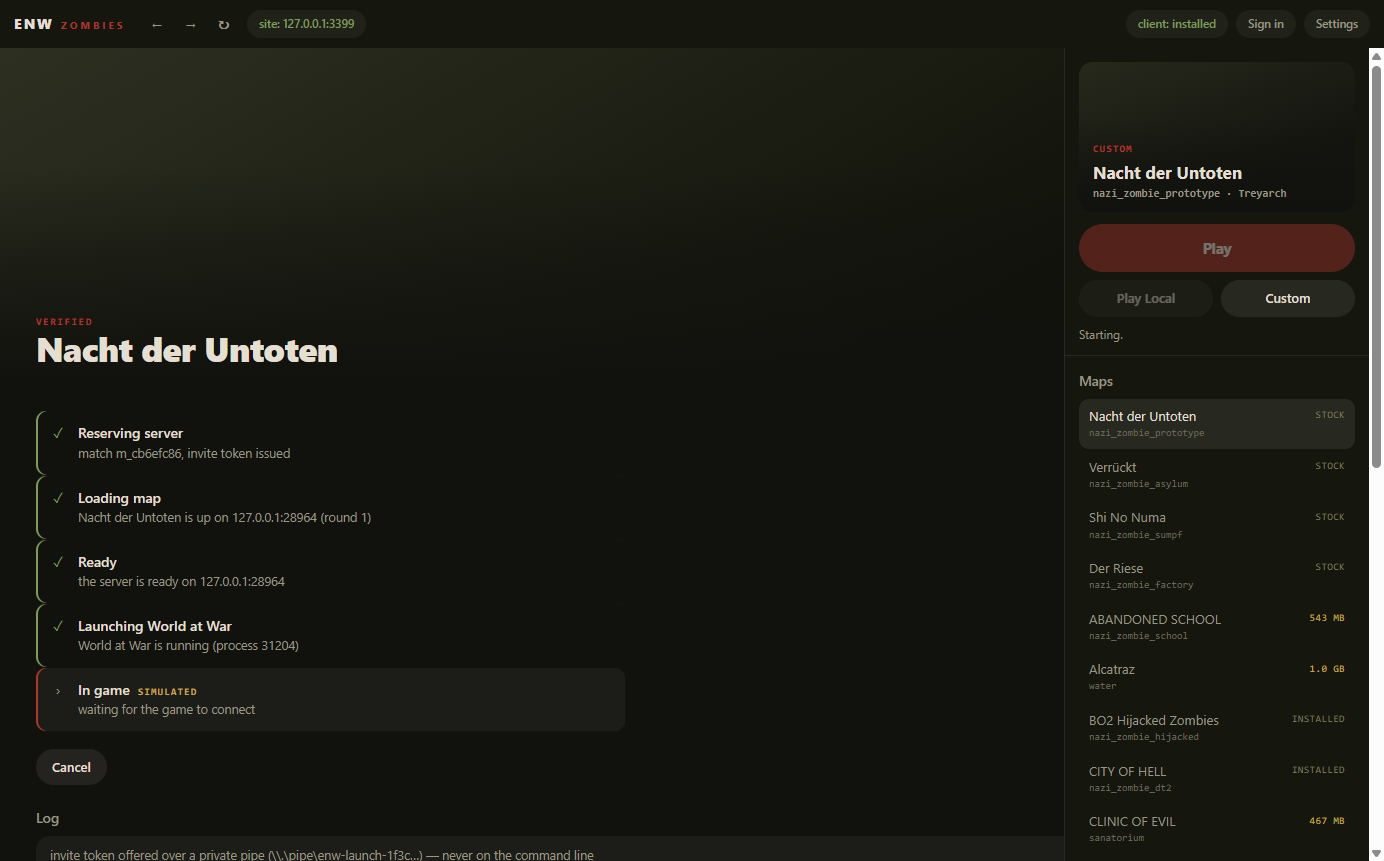
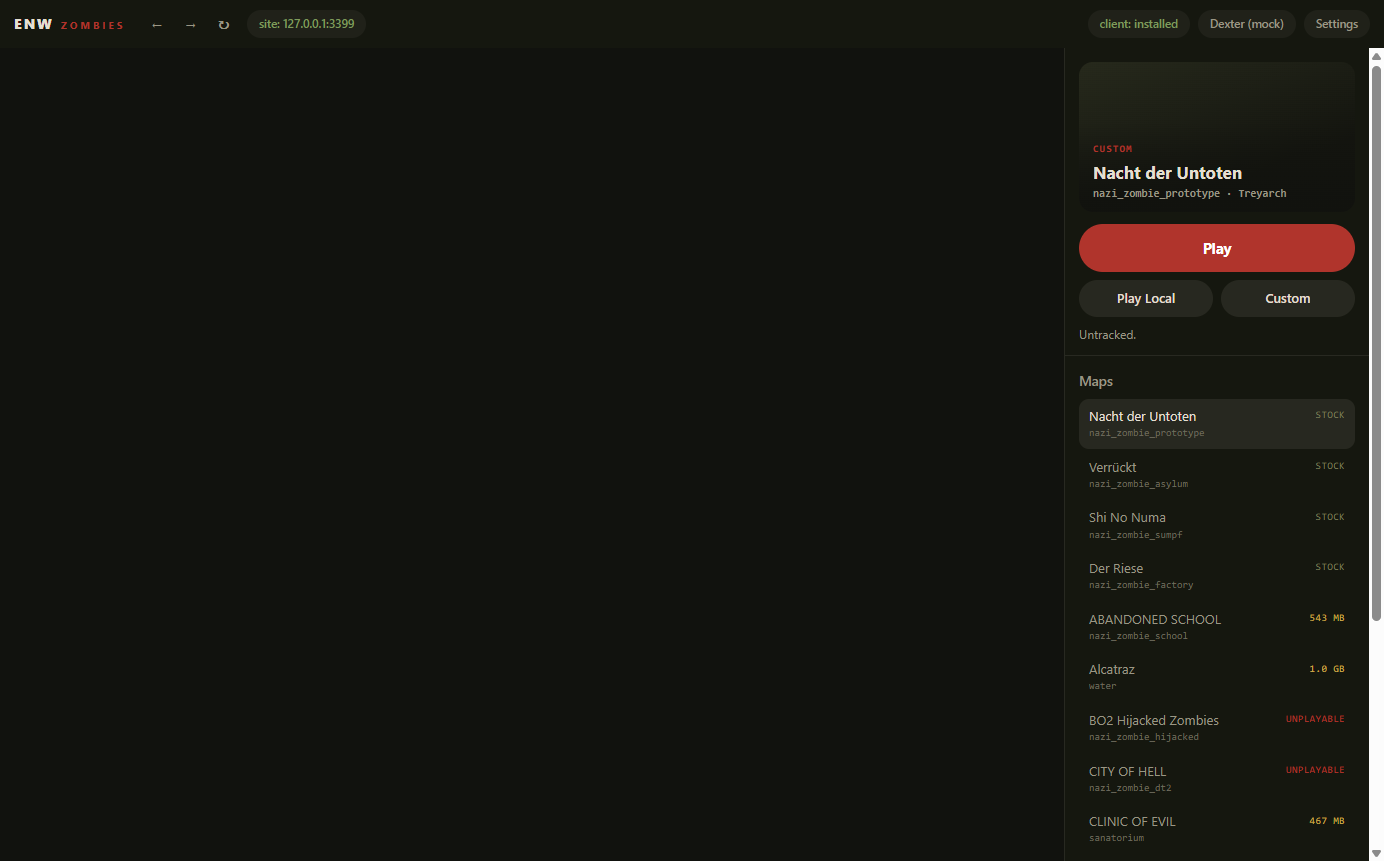
ui: the launcher renderer reads like the site, and says when a map is dead
Same palette and the same component vocabulary as web/client/src/theme.css:
borderless surfaces, pill buttons and inputs, 13.5px sentence-case labels,
mono micro-caps for the small stuff, 14px radii. The launcher and the page
it wraps no longer look like two products.

Copy cut: the setup screen's "One screen. We find your copy of World at
War..." lede, Settings' "your own World at War config is never modified",
"Your Steam copy of World at War is not touched, and nothing is written to
it. Ever." (now "Your Steam copy is not touched."), the detection screen's
recital of where it looked (that screen already lists every folder), "Some
of this was not real", and six hints that explained more than the control
needed. The card note under Play now only speaks when it has something the
button does not.

New, and the reason for the commit: a map can install cleanly, launch, and
be dead from a GSC error before the player can move — three tried, three
different errors. The rail had no word for that. An installed map that is
not playable now carries a red UNPLAYABLE tag instead of "installed", and
selecting it says "Installs and launches, but its script dies on load."
Play is left enabled: this is the state we need people to be able to
reproduce, not one to hide behind a disabled button.

`playable(m)` reads `m.playable` when the catalogue carries it; until the
main process does, stock is playable and custom is not, which is today's
truth.

diff --git a/launcher/src/renderer/shell.js b/launcher/src/renderer/shell.js
@@ -32,6 +32,19 @@ const STOCK = [
   { bsp: 'nazi_zombie_factory', title: 'Der Riese', author: 'Treyarch', stock: true, installed: true, available: true, bytes: 0, fsGame: null },
 ]
 
+// Installed is not the same as playable.
+//
+// A custom map installs cleanly, launches, renders and holds 60 fps, and its server
+// script is already dead from a GSC runtime error before the player can move. Three
+// tried, three different errors. "Play" followed by a silent dead map is worse than a
+// row that says so, so the rail says so.
+//
+// The catalogue does not carry that verdict yet. When the main process adds `playable`
+// to a record this reads it; until then a stock map is playable and a custom one is not,
+// which is today's truth. Delete the fallback, not this function, when it stops being.
+const playable = (m) => (m && m.playable !== undefined ? !!m.playable : !!(m && m.stock))
+const UNPLAYABLE_NOTE = 'Installs and launches, but its script dies on load.'
+
 // ------------------------------------------------------------------- screens --
 
 function show(name) {
@@ -71,9 +84,11 @@ function renderMaps() {
     // "not on this PC" is a real state and has to look different from "download me":
     // nothing serves the rescued map files yet, so on a friend's machine most of this
     // list cannot be installed at all. Saying "453 MB" there would be a lie.
+    const dead = !playable(m)
     const tag = el('span', 'tag',
-      m.stock ? 'stock' : m.installed ? 'installed' : m.available ? mb(m.bytes) : 'unavailable')
-    if (!m.stock && !m.installed) tag.classList.add(m.available ? 'needs' : 'absent')
+      m.stock ? 'stock' : dead && m.installed ? 'unplayable' : m.installed ? 'installed' : m.available ? mb(m.bytes) : 'unavailable')
+    if (dead && m.installed) tag.classList.add('dead')
+    else if (!m.stock && !m.installed) tag.classList.add(m.available ? 'needs' : 'absent')
     b.append(tag)
     // The bsp, small — it is what the folder and the original download are called, and
     // people searching for a map will have seen it.
@@ -127,15 +142,18 @@ function updatePlay() {
   }
   $('playLocalBtn').disabled = !S.map || !ready || busy || needsInstall || unavailable || installing
   // One line, and only when it says something the buttons do not.
-  $('cardNote').textContent =
+  const note = $('cardNote')
+  note.textContent =
     !ready ? 'ENW client not installed.'
       : installing ? (S.installFile || 'Copying files.')
         : busy ? 'Starting.'
           : !S.map ? 'Pick a map.'
-            : unavailable ? 'Not on this PC. The four stock maps work.'
+            : unavailable ? 'Not on this PC. Nacht der Untoten works.'
               : needsInstall ? 'Not installed yet.'
-                : S.mode === 'verified' ? 'Records and badges count.'
-                  : 'Untracked.'
+                : !playable(m) ? UNPLAYABLE_NOTE
+                  : S.mode === 'verified' ? 'Records and badges count.'
+                    : 'Untracked.'
+  note.classList.toggle('bad', !!m && !needsInstall && !unavailable && !installing && !playable(m))
 }
 
 async function installSelected() {

diff --git a/launcher/src/renderer/shell.css b/launcher/src/renderer/shell.css
@@ -64,6 +64,12 @@ input, select {
   border-radius: var(--pill); padding: 8px 14px; width: 100%; outline: none;
 }
 input:focus, select:focus { background: rgba(228, 223, 209, .12); box-shadow: 0 0 0 2px rgba(123, 126, 88, .3); }
+/* A checkbox is not a text field: the browser default is a white box that reads as a
+   different application to everything around it. */
+input[type=checkbox] {
+  width: 16px; height: 16px; padding: 0; border-radius: 4px;
+  accent-color: var(--olive); background: var(--panel-2); cursor: pointer;
+}
 a { color: var(--olive); }
 code { font-family: var(--mono); font-size: 12px; color: var(--bone-dim); word-break: break-all; }
 
@@ -135,6 +141,8 @@ code { font-family: var(--mono); font-size: 12px; color: var(--bone-dim); word-b
 .card-actions .row > * { flex: 1; }
 #playBtn { padding: 13px; font-size: 14.5px; font-weight: 700; }
 .card-note { font-size: 12px; color: var(--text-dim); }
+/* Installed but not playable: the one note that has to be read, not skimmed past. */
+.card-note.bad { color: var(--blood-bright); }
 
 .kv {
   display: flex; align-items: baseline; justify-content: space-between; gap: 10px;
@@ -260,3 +268,5 @@ code { font-family: var(--mono); font-size: 12px; color: var(--bone-dim); word-b
 }
 /* A map whose files are not on this PC at all — different from one you could download. */
 .maplist .tag.absent { color: var(--faint); }
+/* Installed, launches, and dies on load. The one tag in the rail that is a warning. */
+.maplist .tag.dead { color: var(--blood-bright); }
